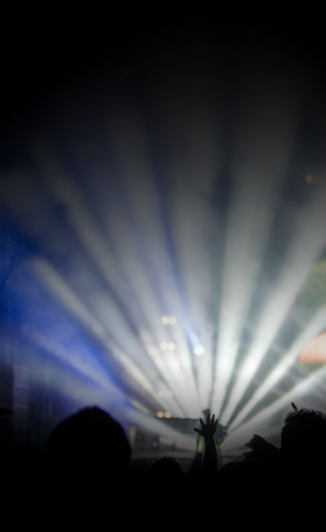
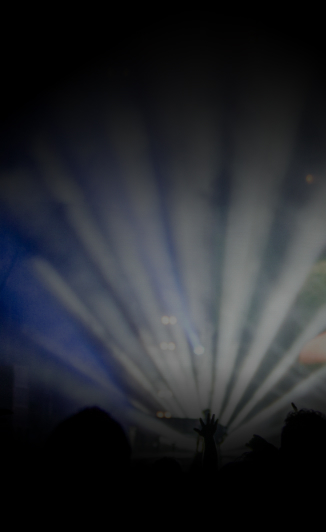
bg mob

diff --git a/public/index.html b/public/index.html
@@ -84,6 +84,8 @@
 			}
 			body{
 				background-image:url('images/concmob.jpg');
+				background-size: contain;
+				background-repeat: no-repeat;
 			}	
 			#landing h1{
 				font-size:8vw;
